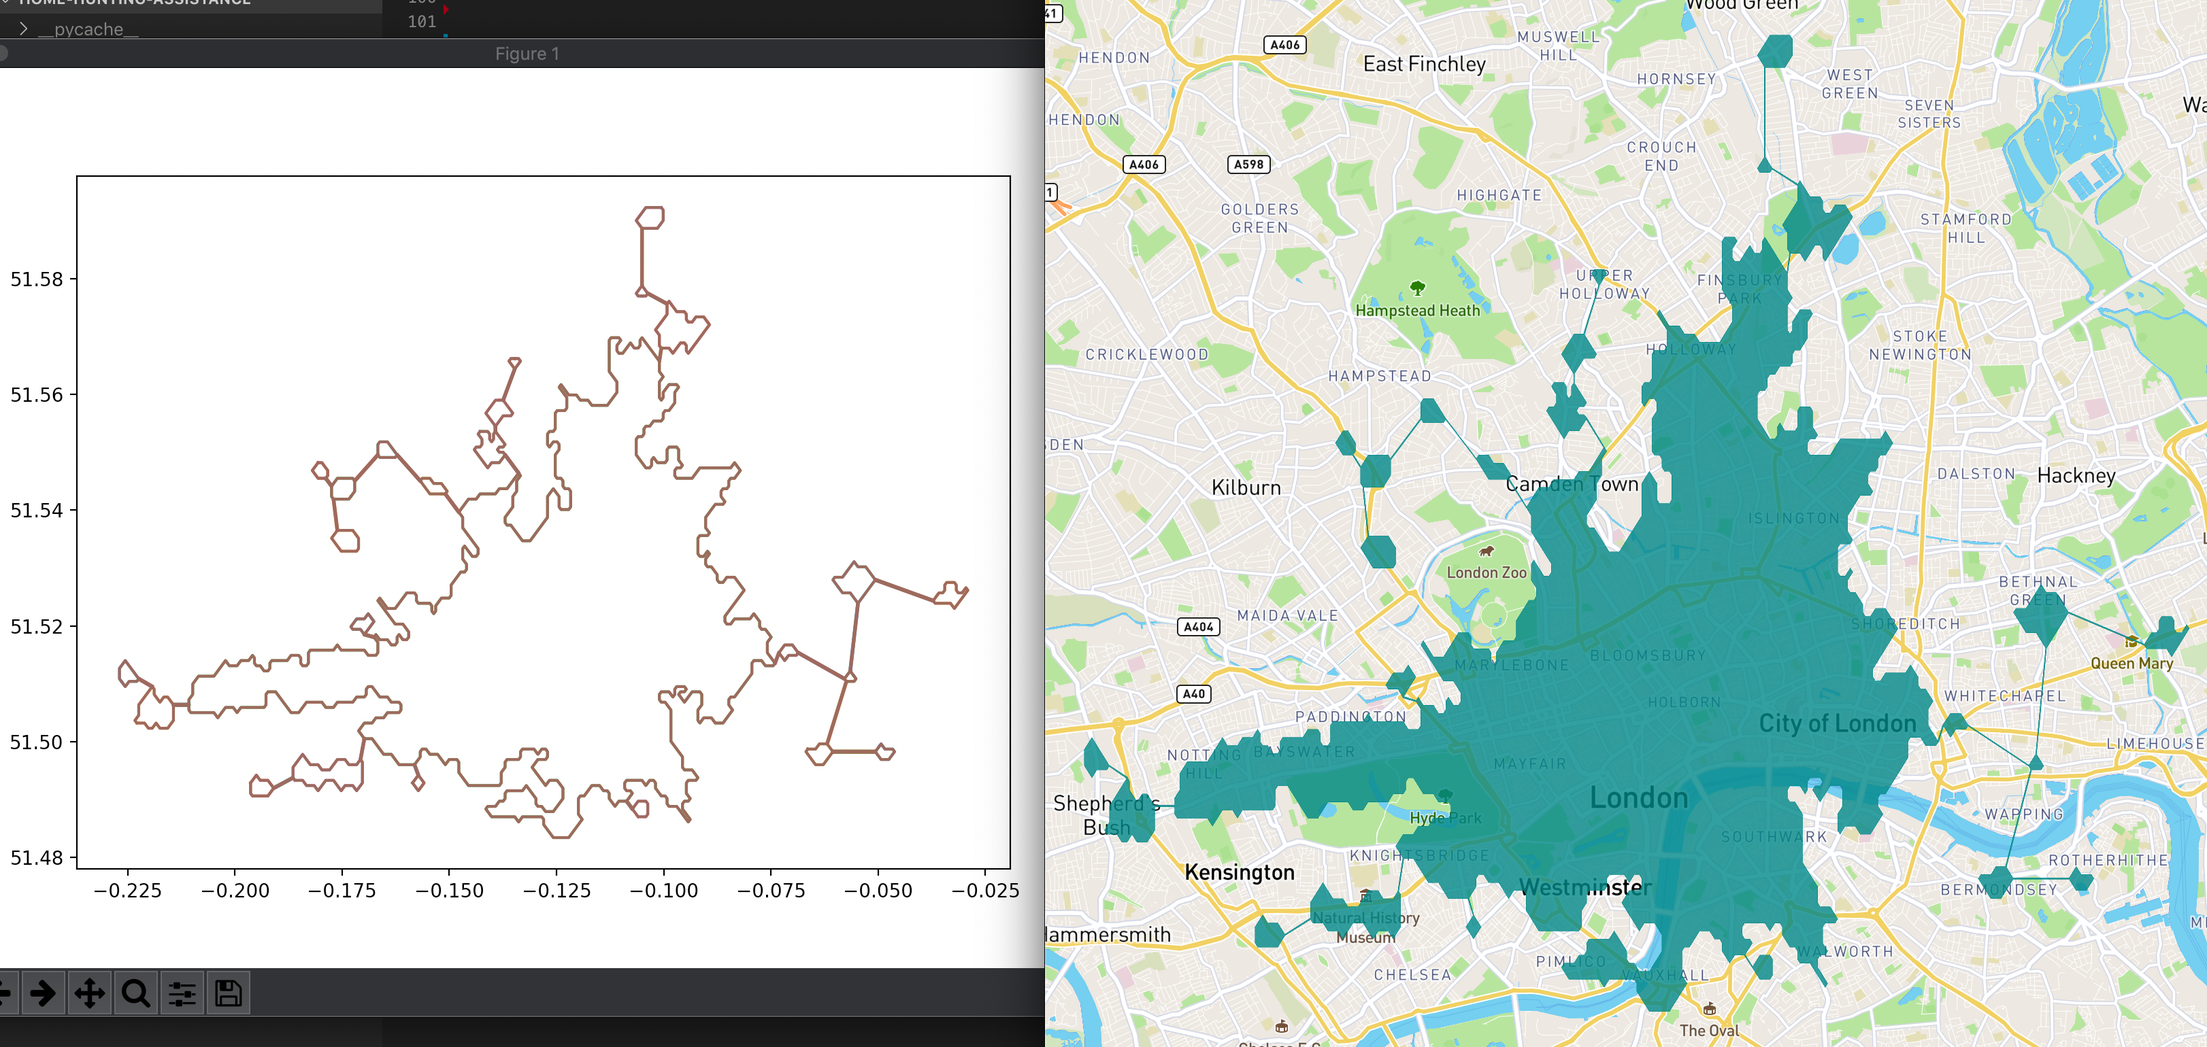
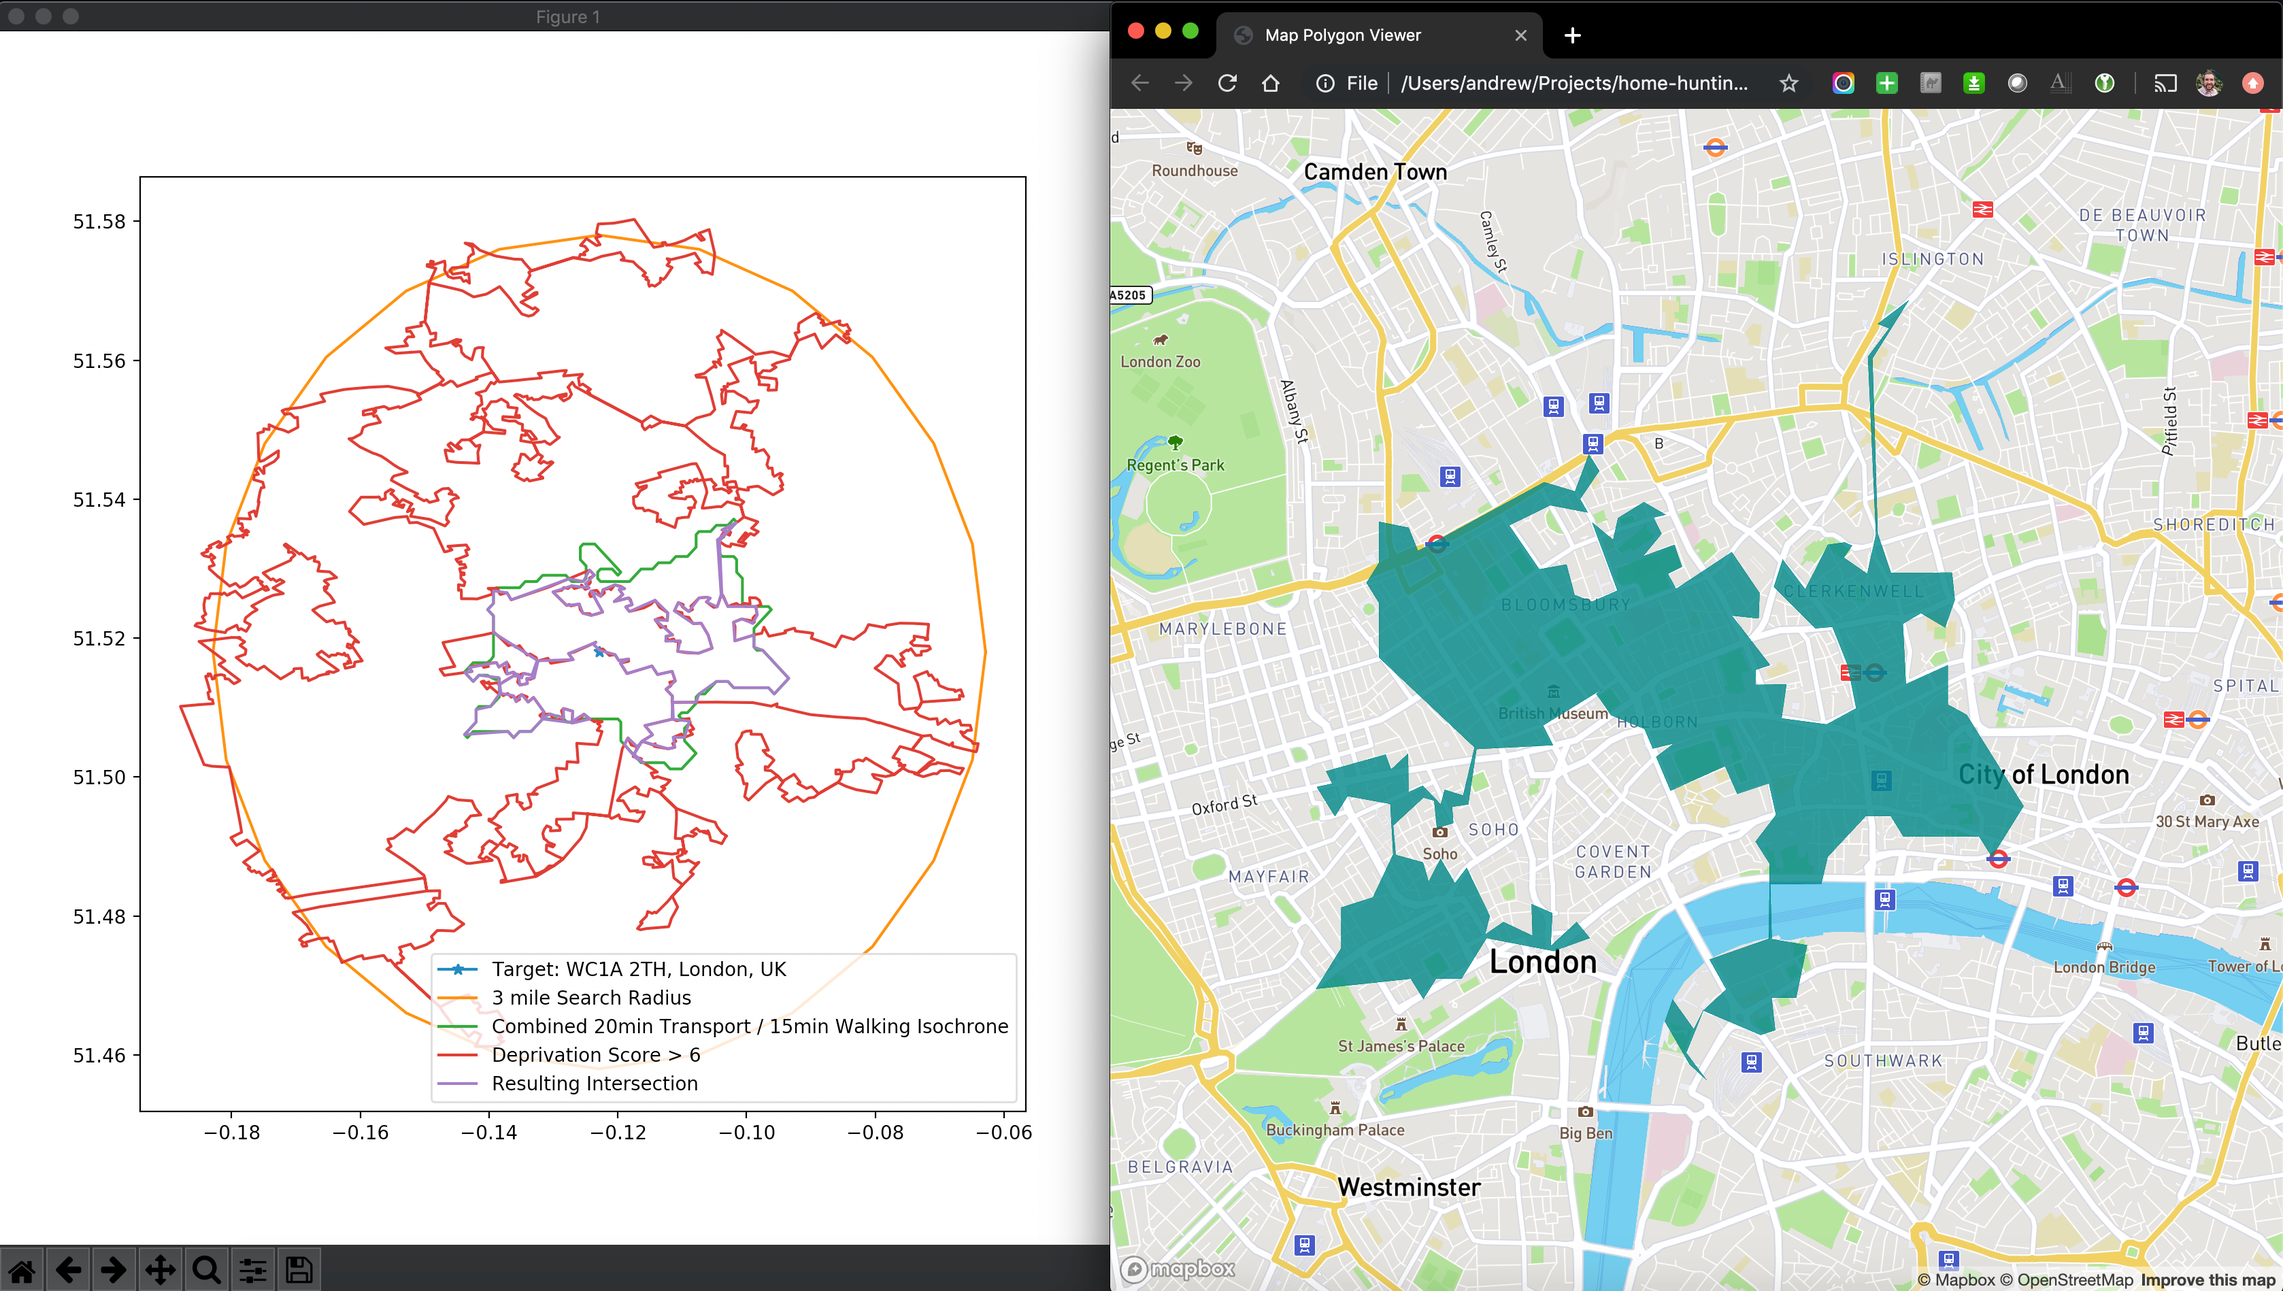
Added support for SIMD, simplified and made IMD integration much faster and more robust. Tested with more locations, general improvements.

diff --git a/src/deprivationTools.py b/src/deprivationTools.py
@@ -2,87 +2,53 @@
 import matplotlib.pyplot as plt
 from descartes import PolygonPatch
 from shapely.geometry import Polygon, MultiPolygon, shape
-from shapely.ops import unary_union
+from shapely.ops import unary_union, transform
+from functools import partial
+import pyproj
 import fiona
+import itertools
+from src import multiPolygonTools
 
 def getPolygonForLeastDeprivedZonesEngland(minimumDeprivationRank):
     # Metadata as per https://www.arcgis.com/home/item.html?id=5e1c399d787e48c0902e5fe4fc1ccfe3
-    # LSOA01CD: 		LSOA code (2011)
-    # LSOA01NM: 		LSOA name (2011)
-    # LADcd: 		    Local Authority District code (2019)
-    # LADnm: 		    Local Authority District name (2019)
-    # IMDScore: 		Index of Multiple Deprivation (IMD) Score
-    # IMDRank0: 		Index of Multiple Deprivation (IMD) Rank (where 1 is most deprived)
-    # IMDDec0: 		Index of Multiple Deprivation (IMD) Decile (where 1 is most deprived 10% of LSOAs)
-    # IncScore: 		Income Score (rate)
-    # IncRank: 		Income Rank (where 1 is most deprived)
-    # IncDec: 		Income Decile (where 1 is most deprived 10% of LSOAs)
-    # EmpScore: 		Employment Score (rate)
-    # EmpRank: 		Employment Rank (where 1 is most deprived)
-    # EmpDec: 		Employment Decile (where 1 is most deprived 10% of LSOAs)
-    # EduScore: 		Education, Skills and Training Score
-    # EduRank: 		Education, Skills and Training Rank (where 1 is most deprived)
-    # EduDec: 		Education, Skills and Training Decile (where 1 is most deprived 10% of LSOAs)
-    # HDDScore: 		Health Deprivation and Disability Score
-    # HDDRank: 		Health Deprivation and Disability Rank (where 1 is most deprived)
-    # HDDDec: 		Health Deprivation and Disability Decile (where 1 is most deprived 10% of LSOAs)
-    # CriScore: 		Crime Score
-    # CriRank: 		Crime Rank (where 1 is most deprived)
-    # CriDec: 		Crime Decile (where 1 is most deprived 10% of LSOAs)
-    # BHSScore: 		Barriers to Housing and Services Score
-    # BHSRank: 		Barriers to Housing and Services Rank (where 1 is most deprived)
-    # BHSDec: 		Barriers to Housing and Services Decile (where 1 is most deprived 10% of LSOAs)
-    # EnvScore: 		Living Environment Score
-    # EnvRank: 		Living Environment Rank (where 1 is most deprived)
-    # EnvDec: 		Living Environment Decile (where 1 is most deprived 10% of LSOAs)
-    # IDCScore: 		Income Deprivation Affecting Children Index (IDACI) Score (rate)
-    # IDCRank: 		Income Deprivation Affecting Children Index (IDACI) Rank (where 1 is most deprived)
-    # IDCDec: 		Income Deprivation Affecting Children Index (IDACI) Decile (where 1 is most deprived 10% of LSOAs)
-    # IDOScore: 		Income Deprivation Affecting Older People (IDAOPI) Score (rate)
-    # IDORank: 		Income Deprivation Affecting Older People (IDAOPI) Rank (where 1 is most deprived)
-    # IDODec: 		Income Deprivation Affecting Older People (IDAOPI) Decile (where 1 is most deprived 10% of LSOAs)
-    # CYPScore: 		Children and Young People Sub-domain Score
-    # CYPRank: 		Children and Young People Sub-domain Rank (where 1 is most deprived)
-    # CYPDec: 		Children and Young People Sub-domain Decile (where 1 is most deprived 10% of LSOAs)
-    # ASScore: 		Adult Skills Sub-domain Score
-    # ASRank: 		Adult Skills Sub-domain Rank (where 1 is most deprived)
-    # ASDec: 		    Adult Skills Sub-domain Decile (where 1 is most deprived 10% of LSOAs)
-    # GBScore: 		Geographical Barriers Sub-domain Score
-    # GBRank: 		Geographical Barriers Sub-domain Rank (where 1 is most deprived)
-    # GBDec: 		    Geographical Barriers Sub-domain Decile (where 1 is most deprived 10% of LSOAs)
-    # WBScore: 		Wider Barriers Sub-domain Score
-    # WBRank: 		Wider Barriers Sub-domain Rank (where 1 is most deprived)
-    # WBDec: 		    Wider Barriers Sub-domain Decile (where 1 is most deprived 10% of LSOAs)
-    # IndScore: 		Indoors Sub-domain Score
-    # IndRank: 		Indoors Sub-domain Rank (where 1 is most deprived)
-    # IndDec: 		Indoors Sub-domain Decile (where 1 is most deprived 10% of LSOAs)
-    # OutScore: 		Outdoors Sub-domain Score
-    # OutRank: 		Outdoors Sub-domain Rank (where 1 is most deprived)
-    # OutDec: 		Outdoors Sub-domain Decile (where 1 is most deprived 10% of LSOAs)
-    # TotPop: 		Total population: mid 2015 (excluding prisoners)
-    # DepChi: 		Dependent Children aged 0-15: mid 2015 (excluding prisoners)
-    # Pop16_59: 		Population aged 16-59: mid 2015 (excluding prisoners)
-    # Pop60+: 		Older population aged 60 and over: mid 2015 (excluding prisoners)
-    # WorkPop: 		Working age population 18-59/64: for use with Employment Deprivation Domain (excluding prisoners)
-
-    # BLUE = '#6699cc'
-    # fig = plt.figure() 
-    # ax = fig.gca() 
-
     filteredZonesPolygons = []
     with fiona.open('datasets/IMD_2019/IMD_2019.shp') as allZones:
-        # print("Total zones: " + str(len(allZones)))
-        # print(allZones.crs)
+        # print("Total IMD data zones: " + str(len(allZones)))
         
         for singleZone in allZones:
             if singleZone['properties']['IMDDec0'] >= minimumDeprivationRank:
-
                 filteredZonesPolygons.append(shape(singleZone['geometry']))
 
-                # ax.add_patch(PolygonPatch(singleZone['geometry'], fc=BLUE, ec=BLUE, alpha=0.5, zorder=2 ))
-
-        # print("Total zones after filtering for rank " +str(minimumDeprivationRank)+": " + str(len(filteredZones)))
-    
-    # ax.axis('scaled')
-    # plt.show()
     return MultiPolygon(filteredZonesPolygons)
+
+def getPolygonForLeastDeprivedZonesScotland(minimumDeprivationRank):
+    filteredZonesPolygons = []
+    with fiona.open('datasets/SG_SIMD_2016/SG_SIMD_2016.shp') as allZones:
+        # print("Total SIMD data zones: " + str(len(allZones)))
+        
+        for singleZone in allZones:
+            if singleZone['properties']['Decile'] >= minimumDeprivationRank:
+                filteredZonesPolygons.append(shape(singleZone['geometry']))
+    
+    return MultiPolygon(filteredZonesPolygons)
+
+def getPolygonForLeastDeprivedZonesUK(minimumDeprivationRank):
+    # Hah, guess you aren't a Scottish Independence voter ;)
+    return MultiPolygon(itertools.chain(
+        getPolygonForLeastDeprivedZonesScotland(minimumDeprivationRank),
+        getPolygonForLeastDeprivedZonesEngland(minimumDeprivationRank)
+    ))
+
+def getSimplifiedClippedUKDeprivationPolygon(minDeprivationScore, targetLngLat, clipDistanceMiles):
+    imdFilterMultiPolygon = getPolygonForLeastDeprivedZonesUK(minDeprivationScore)
+    # print("imdFilterMultiPolygons after deprivation filter: " + str(len(imdFilterMultiPolygon)))
+
+    imdFilterMultiPolygon = multiPolygonTools.filterUKMultiPolygonByMaxDistanceMiles(imdFilterMultiPolygon, targetLngLat, clipDistanceMiles)
+    # print("imdFilterMultiPolygons after distance filter: " + str(len(imdFilterMultiPolygon)))
+
+    imdFilterMultiPolygon = multiPolygonTools.simplify(imdFilterMultiPolygon, 0.001)
+    imdFilterCombinedPolygon = multiPolygonTools.convertMultiToSingleWithJoiningLines(imdFilterMultiPolygon)
+    
+    UKtoWGS84Project = partial(pyproj.transform, pyproj.Proj(init='epsg:27700'), pyproj.Proj(init='epsg:4326'))
+
+    return transform(UKtoWGS84Project, imdFilterCombinedPolygon)

diff --git a/generateZooplaSearch.py b/generateZooplaSearch.py
@@ -1,9 +1,10 @@
 #!/usr/bin/env python3
 import matplotlib.pyplot as plt
-from shapely.geometry import Polygon
+from shapely.geometry import Point, Polygon, LineString
 from shapely.ops import unary_union, transform
 from functools import partial
 import pyproj
+from geopy.distance import lonlat, distance
 
 from src import multiPolygonTools
 from src import zooplaTools
@@ -18,9 +19,11 @@ from src import deprivationTools
 
 # Parameters for where to search and what to search for!
 targetLocationAddress = "WC1A 2TH, London, UK"
-minDeprivationScore = 10
+# targetLocationAddress = "69 Morrison Street, Edinburgh, UK"
+
+minDeprivationScore = 6
 maxWalkingTimeMins = "15"
-maxPublicTransportTravelTimeMins = "30"
+maxPublicTransportTravelTimeMins = "20"
 rental = True
 sharedAccommodation = False
 minPrice = ""
@@ -28,54 +31,58 @@ maxPrice = "1300"
 minBeds = "1"
 maxBeds = ""
 customKeywords = ""
+searchRadiusLimitMiles = 3
+
+# Enable this to plot various polygons as matplotlib graph too for help understanding the results
+plotDebugGraph = False
 
 UKtoWGS84Project = partial(pyproj.transform, pyproj.Proj(init='epsg:27700'), pyproj.Proj(init='epsg:4326'))
 WGS84toUKProject = partial(pyproj.transform, pyproj.Proj(init='epsg:4326'), pyproj.Proj(init='epsg:27700'))
 
 targetLngLat = mapboxTools.getCentrePointLngLatForAddress(targetLocationAddress)
+if plotDebugGraph:
+    plt.plot(*targetLngLat, marker='*', label='Target: '+targetLocationAddress)
+
+if plotDebugGraph:
+    targetBoundingBox = multiPolygonTools.getBoundingCircleForPoint(targetLngLat, searchRadiusLimitMiles)
+    plt.plot(*targetBoundingBox.exterior.xy, label=str(searchRadiusLimitMiles)+' mile Search Radius')
 
 walkingIsochroneGeom = mapboxTools.getWalkingIsochroneGeometry(targetLngLat, maxWalkingTimeMins)
-walkingIsochronePolygon = transform(WGS84toUKProject, Polygon(walkingIsochroneGeom))
-
-# plt.plot(*walkingIsochronePolygon.exterior.xy)
-# mapboxTools.viewPolygonInBrowser(walkingIsochroneGeom)
+walkingIsochronePolygon = Polygon(walkingIsochroneGeom)
+# if plotDebugGraph:
+    # plt.plot(*walkingIsochronePolygon.exterior.xy, label=maxWalkingTimeMins + 'min Walking Isochrone')
 
 publicTransportIsochroneGeom = travelTimeTools.getPublicTransportIsochroneGeometry(targetLngLat, maxPublicTransportTravelTimeMins)
 publicTransportIsochroneGeom = multiPolygonTools.convertMultiToSingleWithJoiningLines(publicTransportIsochroneGeom)
-publicTransportIsochronePolygon = transform(WGS84toUKProject, Polygon(publicTransportIsochroneGeom))
-
-# plt.plot(*publicTransportIsochronePolygon.exterior.xy)
-# mapboxTools.viewPolygonInBrowser(publicTransportIsochroneGeom)
+publicTransportIsochronePolygon = Polygon(publicTransportIsochroneGeom)
+# if plotDebugGraph:
+    # plt.plot(*publicTransportIsochronePolygon.exterior.xy, label=maxPublicTransportTravelTimeMins + 'min Public Transport Isochrone')
 
 combinedIsochronesPolygon = multiPolygonTools.convertMultiToSingleWithJoiningLines([walkingIsochronePolygon, publicTransportIsochronePolygon])
-# plt.plot(*combinedIsochronesPolygon.exterior.xy)
+if plotDebugGraph:
+    plt.plot(*combinedIsochronesPolygon.exterior.xy, label='Combined '+maxPublicTransportTravelTimeMins+'min Transport / '+maxWalkingTimeMins+'min Walking Isochrone')
 
-deprivationFilterMultiPolygon = deprivationTools.getPolygonForLeastDeprivedZonesEngland(minDeprivationScore)
-print("deprivationFilterMultiPolygon type pre-filter: " + str(type(deprivationFilterMultiPolygon)))
-print("deprivationFilterMultiPolygon length pre-filter: " + str(len(deprivationFilterMultiPolygon)))
+imdFilterCombinedPolygon = deprivationTools.getSimplifiedClippedUKDeprivationPolygon(minDeprivationScore, targetLngLat, searchRadiusLimitMiles)
+if plotDebugGraph:
+    plt.plot(*imdFilterCombinedPolygon.exterior.xy, label='Deprivation Score > ' + str(minDeprivationScore))
 
-# for deprivationFilterSinglePolygon in deprivationFilterMultiPolygon:
-#    plt.plot(*Polygon(deprivationFilterSinglePolygon).exterior.xy)
-
-combinedIntersectionPolygon = combinedIsochronesPolygon.intersection(deprivationFilterMultiPolygon)
+combinedIntersectionPolygon = combinedIsochronesPolygon.intersection(imdFilterCombinedPolygon)
 combinedIntersectionPolygon = multiPolygonTools.convertMultiToSingleWithJoiningLines(combinedIntersectionPolygon)
-# plt.plot(*combinedIntersectionPolygon.exterior.xy)
-# plt.show()
-# exit()
-
-combinedIntersectionPolygon = transform(UKtoWGS84Project, combinedIntersectionPolygon)
 
 # Simplify resulting polygon somewhat as URL can't be too long or Zoopla throws HTTP 414 error
 combinedIntersectionPolygon = combinedIntersectionPolygon.simplify(0.0005)
 
+if plotDebugGraph:
+    plt.plot(*combinedIntersectionPolygon.exterior.xy, label='Resulting Intersection')
+
 # Useful when debugging this to find the ideal simplification factor:
 # print("Zoopla URL Length: " + str(len(zooplaTools.buildPropertyQueryURL(rental, minPrice, maxPrice, minBeds, maxBeds, sharedAccommodation, customKeywords, combinedIntersectionPolygon))))
 
-# Plot on mapbox leaflet map for easier debugging polygons
-# mapboxTools.viewPolygonInBrowser(combinedIntersectionPolygon)
+if plotDebugGraph:
+    # Also plot resulting polygon on mapbox leaflet map for easier debugging
+    mapboxTools.viewPolygonInBrowser(combinedIntersectionPolygon)
 
-# Plot on matplotlib graph for further debugging polygons
-# plt.plot(*combinedIntersectionPolygon.exterior.xy)
-# plt.show()
+    plt.legend()
+    plt.show()
 
 zooplaTools.launchPropertyQueryInBrowser(rental, minPrice, maxPrice, minBeds, maxBeds, sharedAccommodation, customKeywords, combinedIntersectionPolygon)

diff --git a/src/multiPolygonTools.py b/src/multiPolygonTools.py
@@ -1,16 +1,50 @@
 #!/usr/bin/env python3
 from shapely.geometry import Point, MultiPoint, Polygon, LineString
-from shapely.ops import unary_union, nearest_points
+from shapely.ops import unary_union, nearest_points, transform
+from geopy.distance import lonlat, distance
+from functools import partial
+import pyproj
+import matplotlib.pyplot as plt
+
+def getBoundingCircleForPoint(targetLngLat, boundingBoxRadiusMiles):
+    # Yes, this is an ugly and inaccurate approximation. It's good enough for now, and much easier than proper projection
+    bufferDistanceDegrees = boundingBoxRadiusMiles / 50
+    targetBoundingCircle = Point(targetLngLat).buffer(bufferDistanceDegrees, 6)
+
+    return targetBoundingCircle
+
+def filterUKMultiPolygonByMaxDistanceMiles(multiPolygonToFilter, targetLngLat, maxDistanceLimitMiles):
+    multiPolygonToFilter = convertListToMultiPolygon(multiPolygonToFilter)
+
+    WGS84toUKProject = partial(pyproj.transform, pyproj.Proj(init='epsg:4326'), pyproj.Proj(init='epsg:27700'))
+    
+    targetBoundingCircle = getBoundingCircleForPoint(targetLngLat, maxDistanceLimitMiles)
+    targetBoundingCircleUKProject = transform(WGS84toUKProject, targetBoundingCircle)
+
+    filteredMultipolygon = []
+    for singlePolygon in multiPolygonToFilter:
+        if targetBoundingCircleUKProject.contains(singlePolygon.centroid):
+            filteredMultipolygon.append(singlePolygon)
+
+    return filteredMultipolygon
+
+def simplify(multiPolygonToSimplify, simplificationFactor):
+    multiPolygonToSimplify = convertListToMultiPolygon(multiPolygonToSimplify)
+
+    if multiPolygonToSimplify is Polygon:
+        return multiPolygonToSimplify.simplify(simplificationFactor)
+
+    simplifiedMultipolygon = []
+    for singlePolygon in multiPolygonToSimplify:
+        simplifiedSinglePolygon = singlePolygon.simplify(simplificationFactor)
+        simplifiedMultipolygon.append(simplifiedSinglePolygon)
+
+    return simplifiedMultipolygon
 
 def convertMultiToSingleWithJoiningLines(multiPolygonToJoin):
-    if type(multiPolygonToJoin) == list:
-        if type(multiPolygonToJoin[0]) is not Polygon:
-            polygonsList = [Polygon(singlePolygonList) for singlePolygonList in multiPolygonToJoin]
-        else:
-            polygonsList = multiPolygonToJoin
-        multiPolygonToJoin = unary_union(polygonsList)
+    multiPolygonToJoin = convertListToMultiPolygon(multiPolygonToJoin)
 
-    while multiPolygonToJoin.geom_type == 'MultiPolygon':
+    while hasattr(multiPolygonToJoin, 'geom_type') and multiPolygonToJoin.geom_type == 'MultiPolygon':
         connectingLinePolygonsArray = []
 
         for currentPolygonIndex, singlePolygonToConnect in enumerate(multiPolygonToJoin):
@@ -37,3 +71,14 @@ def convertMultiToSingleWithJoiningLines(multiPolygonToJoin):
         multiPolygonToJoin = unary_union([multiPolygonToJoin, connectingLinesPolygon])
 
     return multiPolygonToJoin
+
+def convertListToMultiPolygon(multiPolygonList):
+    if type(multiPolygonList) == list and len(multiPolygonList) > 0:
+        if type(multiPolygonList[0]) is not Polygon:
+            polygonsList = [Polygon(singlePolygonList) for singlePolygonList in multiPolygonList]
+        else:
+            polygonsList = multiPolygonList
+
+        multiPolygonList = unary_union(polygonsList)
+    
+    return multiPolygonList

diff --git a/src/mapboxTools.py b/src/mapboxTools.py
@@ -29,20 +29,23 @@ def getWalkingIsochroneGeometry(targetLngLat, maxWalkingTimeMins):
 def viewPolygonInBrowser(singlePolygon):
     if type(singlePolygon) is not Polygon: singlePolygon = Polygon(singlePolygon)
     
-    # Debug polygon object by plotting on Leaflet map in web browser by rendering to an HTML file
-    singlePolygonCoords = []
-    for coord in list(zip(*singlePolygon.exterior.coords.xy)):
-        singlePolygonCoords.append([coord[0], coord[1]])
+    singlePolygonExterior = singlePolygon.exterior
+    
+    if hasattr(singlePolygonExterior, 'coords'):
+        # Debug polygon object by plotting on Leaflet map in web browser by rendering to an HTML file
+        singlePolygonCoords = []
+        for coord in list(zip(*singlePolygonExterior.coords.xy)):
+            singlePolygonCoords.append([coord[0], coord[1]])
 
-    singlePolygonRepPoint = singlePolygon.representative_point()
+        singlePolygonRepPoint = singlePolygon.representative_point()
 
-    tempMapPlotFilename = "mapbox-polygon-temp.html"
-    jinja2.Template(open("src/mapbox-polygon-template.html").read()).stream(
-         MAPBOX_ACCESS_TOKEN=os.environ['MAPBOX_ACCESS_TOKEN'],
-         MAP_CENTER_POINT_COORD="[" + str(singlePolygonRepPoint.x) + "," + str(singlePolygonRepPoint.y) + "]",
-         MAP_LAYER_GEOJSON=[singlePolygonCoords]
-     ).dump(tempMapPlotFilename)
+        tempMapPlotFilename = "mapbox-polygon-temp.html"
+        jinja2.Template(open("src/mapbox-polygon-template.html").read()).stream(
+            MAPBOX_ACCESS_TOKEN=os.environ['MAPBOX_ACCESS_TOKEN'],
+            MAP_CENTER_POINT_COORD="[" + str(singlePolygonRepPoint.x) + "," + str(singlePolygonRepPoint.y) + "]",
+            MAP_LAYER_GEOJSON=[singlePolygonCoords]
+        ).dump(tempMapPlotFilename)
 
-    webbrowser.open_new("file://" + os.getcwd() + "/" + tempMapPlotFilename)
-    time.sleep(3)
-    os.remove(tempMapPlotFilename)
+        webbrowser.open_new("file://" + os.getcwd() + "/" + tempMapPlotFilename)
+        # time.sleep(3)
+        # os.remove(tempMapPlotFilename)
